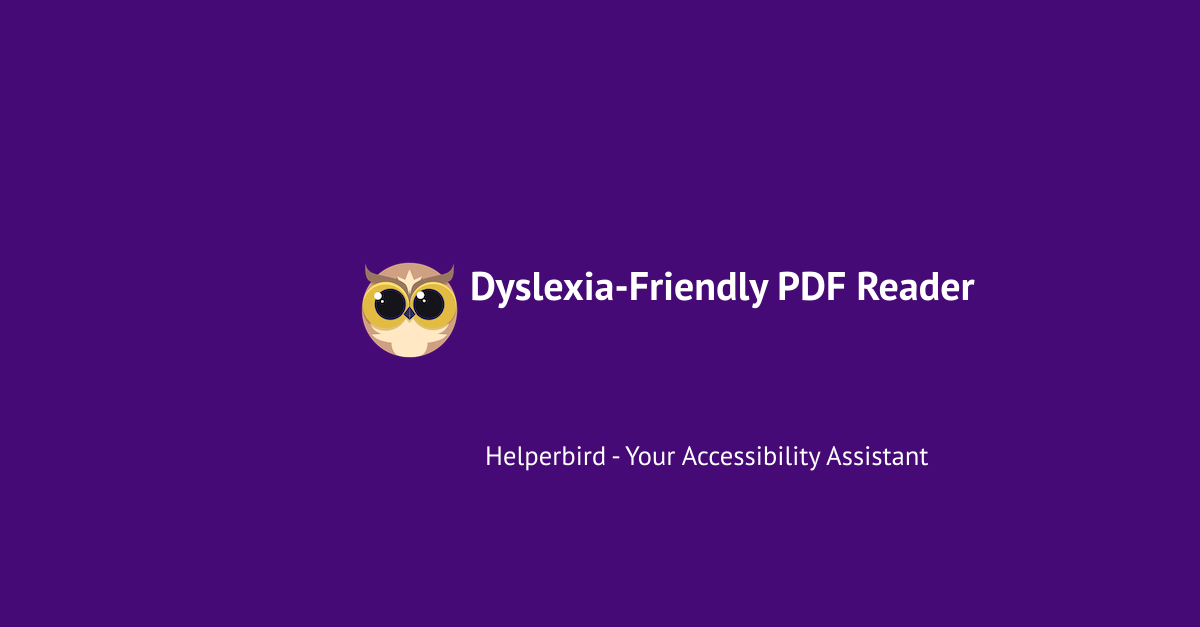
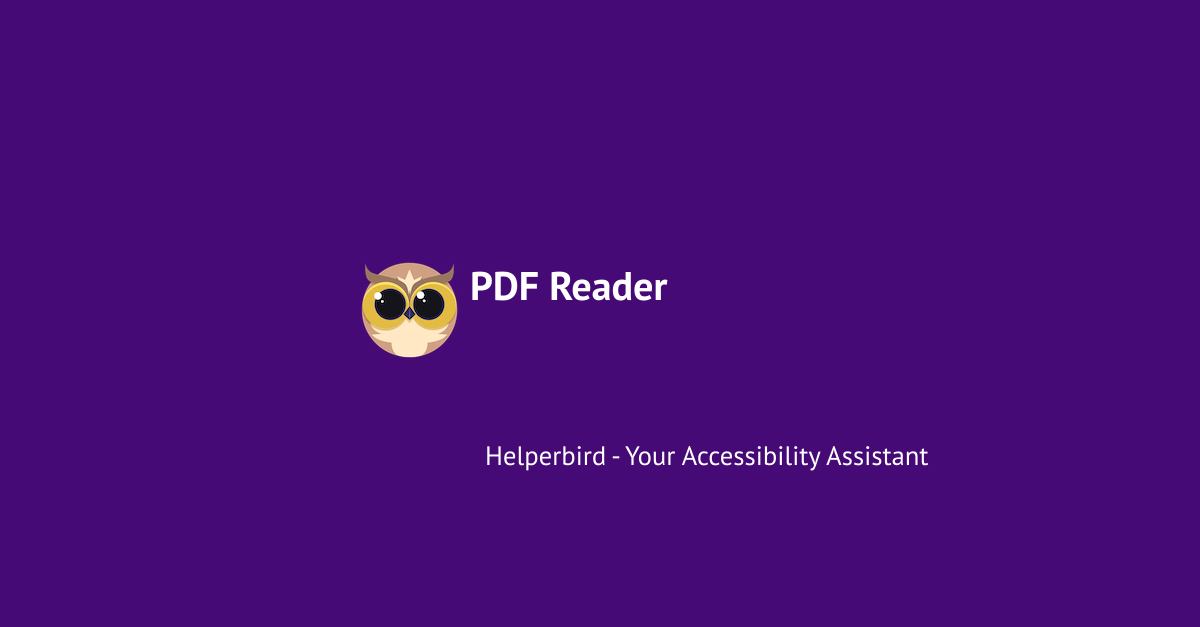
Deploying to gh-pages from  @ 05a28f07f5a9c2d22b33d9c2ecbe82440b8aa141 🚀

Changed region(s): [[0.4008, 0.4242, 0.8325, 0.4848]]

diff --git a/features/pdfs/index.html b/features/pdfs/index.html
@@ -4,7 +4,7 @@
   <head>
     <meta charset="utf-8" />
     <meta content="width=device-width, initial-scale=1.0" name="viewport" />
-    <title>Effortlessly Annotate and Highlight PDFs | Dyslexia-Friendly PDF Reader - Helperbird features</title>
+    <title>Annotate and Highlight PDFs | Dyslexia-Friendly PDF Reader - Helperbird features</title>
     <link href="/assets/js/main.css" rel="stylesheet" />
     <script>
       if ('serviceWorker' in navigator) {
@@ -13,24 +13,24 @@
     </script>
 
     <link href="https://www.helperbird.com/features/pdfs/" rel="canonical" />
-    <meta content="Elevate your PDF interactions with Helperbird's Dyslexia-Friendly PDF Reader. Not only can you annotate, highlight, and add sticky notes, but you also gain the advantage of dyslexia support features. With integrated text-to-speech, Immersive Reader, and a highlighter tool, navigating and studying PDFs becomes a seamless experience. Try it now with our easy-to-use browser extension." name="description" />
+    <meta content="Easily annotate, highlight, and add sticky notes to your PDFs with Helperbird's PDF Reader. Enjoy dyslexia support features like text-to-speech and Immersive Reader to make reading and studying PDFs simpler and more accessible." name="description" />
     <meta content="Dyslexia software, Reading Mode for Google Chrome, Voice typing for Chrome, Text to speech for Chrome, text reader, Immersive Reader, dyslexia fonts, accessibility software, dyslexia software, Helperbird for Edge, Helperbird for Firefox, Helperbird for Chrome, Opendyslexic for Chrome, OpenDyslexic" name="keywords" />
 
     <meta name="viewport" content="width=device-width, initial-scale=1, shrink-to-fit=no" />
     <meta content="/assets/images/favicon.png" name="image" />
     <meta content="#5046e4" name="theme-color" />
     <meta content="Helperbird" itemprop="name" />
-    <meta content="Elevate your PDF interactions with Helperbird's Dyslexia-Friendly PDF Reader. Not only can you annotate, highlight, and add sticky notes, but you also gain the advantage of dyslexia support features. With integrated text-to-speech, Immersive Reader, and a highlighter tool, navigating and studying PDFs becomes a seamless experience. Try it now with our easy-to-use browser extension." itemprop="description" />
+    <meta content="Easily annotate, highlight, and add sticky notes to your PDFs with Helperbird's PDF Reader. Enjoy dyslexia support features like text-to-speech and Immersive Reader to make reading and studying PDFs simpler and more accessible." itemprop="description" />
     <meta content="/assets/images/favicon.png" itemprop="image" />
 
     <meta name="twitter:card" content="summary_large_image" />
     <meta name="twitter:site" content="@helperbird" />
     <meta name="twitter:creator" content="@robertjgabriel" />
-    <meta name="twitter:title" content="Effortlessly Annotate and Highlight PDFs | Dyslexia-Friendly PDF Reader - Helperbird" />
+    <meta name="twitter:title" content="Annotate and Highlight PDFs | Dyslexia-Friendly PDF Reader - Helperbird" />
     <meta property="twitter:domain" content="helperbird.com" />
 
     <meta property="twitter:url" content="https://www.helperbird.com/features/pdfs/" />
-    <meta name="twitter:description" content="Elevate your PDF interactions with Helperbird's Dyslexia-Friendly PDF Reader. Not only can you annotate, highlight, and add sticky notes, but you also gain the advantage of dyslexia support features. With integrated text-to-speech, Immersive Reader, and a highlighter tool, navigating and studying PDFs becomes a seamless experience. Try it now with our easy-to-use browser extension." />
+    <meta name="twitter:description" content="Easily annotate, highlight, and add sticky notes to your PDFs with Helperbird's PDF Reader. Enjoy dyslexia support features like text-to-speech and Immersive Reader to make reading and studying PDFs simpler and more accessible." />
 
     <meta name="twitter:image:alt" content="Helperbird promo art with text saying visit Helperbird" />
     <meta name="twitter:image" content="https://www.helperbird.com/features/pdfs/index.png" />
@@ -39,8 +39,8 @@
 
     <meta property="og:locale" content="en_US" />
     <meta property="og:type" content="website" />
-    <meta property="og:title" content="Effortlessly Annotate and Highlight PDFs | Dyslexia-Friendly PDF Reader - Helperbird" />
-    <meta property="og:description" content="Elevate your PDF interactions with Helperbird's Dyslexia-Friendly PDF Reader. Not only can you annotate, highlight, and add sticky notes, but you also gain the advantage of dyslexia support features. With integrated text-to-speech, Immersive Reader, and a highlighter tool, navigating and studying PDFs becomes a seamless experience. Try it now with our easy-to-use browser extension." />
+    <meta property="og:title" content="Annotate and Highlight PDFs | Dyslexia-Friendly PDF Reader - Helperbird" />
+    <meta property="og:description" content="Easily annotate, highlight, and add sticky notes to your PDFs with Helperbird's PDF Reader. Enjoy dyslexia support features like text-to-speech and Immersive Reader to make reading and studying PDFs simpler and more accessible." />
     <meta property="og:url" content="https://www.helperbird.com/features/pdfs/" />
     <meta property="og:site_name" content="Helperbird" />
     <meta property="og:image" content="https://www.helperbird.com/features/pdfs/index.png" />
@@ -2105,7 +2105,7 @@
 
           <div class="px-6 py-24 sm:py-32 lg:px-8 mb-12">
             <div class="mx-auto max-w-2xl text-center">
-              <h2 class="text-3xl font-bold text-black sm:text-4xl">Dyslexia-Friendly PDF Reader</h2>
+              <h2 class="text-3xl font-bold text-black sm:text-4xl">PDF Reader</h2>
               <p class="mt-6 text-2xl  text-black">Elevate your PDF interactions with Helperbird's Dyslexia-Friendly PDF Reader. Not only can you annotate, highlight, and add sticky notes, but you also gain the advantage of dyslexia support features. With integrated text-to-speech, Immersive Reader, and a highlighter tool, navigating and studying PDFs becomes a seamless experience.</p>
             </div>
           </div>
@@ -2117,47 +2117,51 @@
                 <div class="lg:max-w-lg text-black">
 
               
-                  <h2 class="leading-relaxed font-display text-2xl mb-6 mt-12 font-semibold text-gray-800">Tell Me About This feature</h2>
-<p class="leading-relaxed font-display mb-4 mt-4 text-lg text-gray-900">Transform your PDF reading experience with Helperbird's Dyslexia-Friendly PDF reader.</p>
-<p class="leading-relaxed font-display mb-4 mt-4 text-lg text-gray-900">Easily annotate, highlight and add sticky notes to your PDFs, all while receiving dyslexia support.</p>
-<p class="leading-relaxed font-display mb-4 mt-4 text-lg text-gray-900">With the added benefit of text-to-speech, immersive reader and a highlighter feature, reading and studying PDFs has never been easier.</p>
-<p class="leading-relaxed font-display mb-4 mt-4 text-lg text-gray-900">Try it now with our easy-to-use browser extension</p>
+                  <h2 class="leading-relaxed font-display text-2xl mb-6 mt-12 font-semibold text-gray-800">About This Feature</h2>
+<p class="leading-relaxed font-display mb-4 mt-4 text-lg text-gray-900">Helperbird's Dyslexia-Friendly PDF Reader makes reading and studying PDFs easier. You can annotate, highlight, and add sticky notes to your PDFs, and get support features like text-to-speech and Immersive Reader.</p>
 <h2 class="leading-relaxed font-display text-2xl mb-6 mt-12 font-semibold text-gray-800">Benefits</h2>
-<p class="leading-relaxed font-display mb-4 mt-4 text-lg text-gray-900">It allows users to easily annotate and highlight PDFs, with support for users with dyslexia.</p>
-<p class="leading-relaxed font-display mb-4 mt-4 text-lg text-gray-900">It offers a text-to-speech feature that can help users with reading difficulties.</p>
-<p class="leading-relaxed font-display mb-4 mt-4 text-lg text-gray-900">It has an immersive reader feature that can help improve reading comprehension and focus.</p>
-<p class="leading-relaxed font-display mb-4 mt-4 text-lg text-gray-900">It allows users to add sticky notes and annotations, making it easier to organize and study PDFs.</p>
-<p class="leading-relaxed font-display mb-4 mt-4 text-lg text-gray-900">It also has a highlighter feature which can be used to emphasize important text.</p>
-<p class="leading-relaxed font-display mb-4 mt-4 text-lg text-gray-900">It can help users with dyslexia to read and study PDFs more efficiently and effectively.</p>
-<p class="leading-relaxed font-display mb-4 mt-4 text-lg text-gray-900">It can enhance the overall user experience by making PDFs more accessible and easy to understand.</p>
+<h3 class="leading-relaxed font-display text-xl mb-4 mt-10 font-semibold text-gray-700">Easy Annotation</h3>
+<p class="leading-relaxed font-display mb-4 mt-4 text-lg text-gray-900">Annotate and highlight PDFs easily, helping you organize and study your documents.</p>
+<h3 class="leading-relaxed font-display text-xl mb-4 mt-10 font-semibold text-gray-700">Dyslexia Support</h3>
+<p class="leading-relaxed font-display mb-4 mt-4 text-lg text-gray-900">Get support features designed to help users with dyslexia, like text-to-speech and Immersive Reader.</p>
+<h3 class="leading-relaxed font-display text-xl mb-4 mt-10 font-semibold text-gray-700">Text-to-Speech</h3>
+<p class="leading-relaxed font-display mb-4 mt-4 text-lg text-gray-900">Let the PDF reader read text aloud, which can help users with reading difficulties.</p>
+<h3 class="leading-relaxed font-display text-xl mb-4 mt-10 font-semibold text-gray-700">Immersive Reader</h3>
+<p class="leading-relaxed font-display mb-4 mt-4 text-lg text-gray-900">Use the Immersive Reader feature to improve reading comprehension and focus.</p>
+<h3 class="leading-relaxed font-display text-xl mb-4 mt-10 font-semibold text-gray-700">Add Sticky Notes</h3>
+<p class="leading-relaxed font-display mb-4 mt-4 text-lg text-gray-900">Add sticky notes to your PDFs for better organization and study efficiency.</p>
+<h3 class="leading-relaxed font-display text-xl mb-4 mt-10 font-semibold text-gray-700">Highlight Important Text</h3>
+<p class="leading-relaxed font-display mb-4 mt-4 text-lg text-gray-900">Use the highlighter to emphasize important text in your PDFs.</p>
+<h3 class="leading-relaxed font-display text-xl mb-4 mt-10 font-semibold text-gray-700">Accessibility</h3>
+<p class="leading-relaxed font-display mb-4 mt-4 text-lg text-gray-900">Make PDFs more accessible and easier to understand for everyone.</p>
 <h2 class="leading-relaxed font-display text-2xl mb-6 mt-12 font-semibold text-gray-800">Features</h2>
 <ul class="leading-relaxed list-disc list-inside mt-4 space-y-2 pl-6 text-lg font-display ml-6 mb-8 text-gray-900">
 <li class="leading-relaxed mb-2 text-lg font-display text-gray-900 flex items-center">Annotate PDFs</li>
 <li class="leading-relaxed mb-2 text-lg font-display text-gray-900 flex items-center">Highlight PDFs</li>
 <li class="leading-relaxed mb-2 text-lg font-display text-gray-900 flex items-center">Add sticky notes to PDFs</li>
 <li class="leading-relaxed mb-2 text-lg font-display text-gray-900 flex items-center">Text-to-speech</li>
-<li class="leading-relaxed mb-2 text-lg font-display text-gray-900 flex items-center">Immersive reader</li>
+<li class="leading-relaxed mb-2 text-lg font-display text-gray-900 flex items-center">Immersive Reader</li>
 <li class="leading-relaxed mb-2 text-lg font-display text-gray-900 flex items-center">Highlighter</li>
 <li class="leading-relaxed mb-2 text-lg font-display text-gray-900 flex items-center">Dyslexia support</li>
-<li class="leading-relaxed mb-2 text-lg font-display text-gray-900 flex items-center">Accessibility</li>
-<li class="leading-relaxed mb-2 text-lg font-display text-gray-900 flex items-center">Access Helperbirds software on any PDF.</li>
+<li class="leading-relaxed mb-2 text-lg font-display text-gray-900 flex items-center">Accessibility features</li>
+<li class="leading-relaxed mb-2 text-lg font-display text-gray-900 flex items-center">Use Helperbird's tools on any PDF</li>
 </ul>
-<h2 class="leading-relaxed font-display text-2xl mb-6 mt-12 font-semibold text-gray-800">How to annotate PDF files online</h2>
-<ul class="leading-relaxed list-disc list-inside mt-4 space-y-2 pl-6 text-lg font-display ml-6 mb-8 text-gray-900">
+<h2 class="leading-relaxed font-display text-2xl mb-6 mt-12 font-semibold text-gray-800">How to Annotate PDF Files Online</h2>
+<ol class="leading-relaxed list-decimal list-inside mt-4 space-y-2 pl-6 text-lg font-display ml-6 mb-8 text-gray-900">
 <li class="leading-relaxed mb-2 text-lg font-display text-gray-900 flex items-center">Open Helperbird and select the PDF reader option.</li>
-<li class="leading-relaxed mb-2 text-lg font-display text-gray-900 flex items-center">Click the open PDF button.</li>
-<li class="leading-relaxed mb-2 text-lg font-display text-gray-900 flex items-center">Click annotate button along the top.</li>
-<li class="leading-relaxed mb-2 text-lg font-display text-gray-900 flex items-center">Thats it.</li>
-</ul>
-<h2 class="leading-relaxed font-display text-2xl mb-6 mt-12 font-semibold text-gray-800">How to highlight PDF files online</h2>
-<ul class="leading-relaxed list-disc list-inside mt-4 space-y-2 pl-6 text-lg font-display ml-6 mb-8 text-gray-900">
+<li class="leading-relaxed mb-2 text-lg font-display text-gray-900 flex items-center">Click the &quot;Open PDF&quot; button.</li>
+<li class="leading-relaxed mb-2 text-lg font-display text-gray-900 flex items-center">Click the &quot;Annotate&quot; button at the top.</li>
+<li class="leading-relaxed mb-2 text-lg font-display text-gray-900 flex items-center">Start annotating your PDF.</li>
+</ol>
+<h2 class="leading-relaxed font-display text-2xl mb-6 mt-12 font-semibold text-gray-800">How to Highlight PDF Files Online</h2>
+<ol class="leading-relaxed list-decimal list-inside mt-4 space-y-2 pl-6 text-lg font-display ml-6 mb-8 text-gray-900">
 <li class="leading-relaxed mb-2 text-lg font-display text-gray-900 flex items-center">Open Helperbird and select the PDF reader option.</li>
-<li class="leading-relaxed mb-2 text-lg font-display text-gray-900 flex items-center">Click the open PDF button.</li>
-<li class="leading-relaxed mb-2 text-lg font-display text-gray-900 flex items-center">Click annotate button along the top.</li>
-<li class="leading-relaxed mb-2 text-lg font-display text-gray-900 flex items-center">Thats it.</li>
-</ul>
-<h2 class="leading-relaxed font-display text-2xl mb-6 mt-12 font-semibold text-gray-800">Is this a Helperbird Pro feature?</h2>
-<p class="leading-relaxed font-display mb-4 mt-4 text-lg text-gray-900">No, this is not a Helperbird Pro feature.</p>
+<li class="leading-relaxed mb-2 text-lg font-display text-gray-900 flex items-center">Click the &quot;Open PDF&quot; button.</li>
+<li class="leading-relaxed mb-2 text-lg font-display text-gray-900 flex items-center">Click the &quot;Highlight&quot; button at the top.</li>
+<li class="leading-relaxed mb-2 text-lg font-display text-gray-900 flex items-center">Start highlighting your PDF.</li>
+</ol>
+<h2 class="leading-relaxed font-display text-2xl mb-6 mt-12 font-semibold text-gray-800">Is This a Helperbird Pro Feature?</h2>
+<p class="leading-relaxed font-display mb-4 mt-4 text-lg text-gray-900">No, this feature is available to all Helperbird users.</p>
 
 
                 </div>

diff --git a/service-worker.js b/service-worker.js
@@ -1784,7 +1784,7 @@ self.__precacheManifest = [
   },
   {
     "url": "extension/index.html",
-    "revision": "12a70e79dbfd0f57feb7550a1eb6b404"
+    "revision": "af532f3e1bd775fe0140cd467de0635b"
   },
   {
     "url": "extension/index.png",
@@ -1936,7 +1936,7 @@ self.__precacheManifest = [
   },
   {
     "url": "features/index.html",
-    "revision": "27d6f51a9c0a4e2505105150fcb2d4be"
+    "revision": "8328bf08e567ac1677fafe4cf6de4ec2"
   },
   {
     "url": "features/index.png",
@@ -1984,11 +1984,11 @@ self.__precacheManifest = [
   },
   {
     "url": "features/pdfs/index.html",
-    "revision": "8c10a025c6fb9454b6861c7d0bdbe35f"
+    "revision": "d707e7f4ba25362e062c9d0113bf0afd"
   },
   {
     "url": "features/pdfs/index.png",
-    "revision": "fc30f3d727108b7bc268f596acb0de5e"
+    "revision": "8bddafc220b30ccaee204af29dcd8d20"
   },
   {
     "url": "features/printing-tool/index.html",
@@ -2920,7 +2920,7 @@ self.__precacheManifest = [
   },
   {
     "url": "index.html",
-    "revision": "7e1023ed3300349d7b3679bf263eecae"
+    "revision": "71ba142fbf5de2bfb612443df68b6a32"
   },
   {
     "url": "index.png",
@@ -3028,7 +3028,7 @@ self.__precacheManifest = [
   },
   {
     "url": "products/chrome/index.html",
-    "revision": "8c63ab3b1cc5017113eebd69b355b1ce"
+    "revision": "38351446b1e379ba4621c263b27ed923"
   },
   {
     "url": "products/chrome/index.png",
@@ -3036,7 +3036,7 @@ self.__precacheManifest = [
   },
   {
     "url": "products/edge/index.html",
-    "revision": "31ddd27c9f8d7f9f342835269d53f6fa"
+    "revision": "3de43993237e684c77019ed528f095ea"
   },
   {
     "url": "products/edge/index.png",
@@ -3044,7 +3044,7 @@ self.__precacheManifest = [
   },
   {
     "url": "products/firefox/index.html",
-    "revision": "e34ce6bf087d4d04c832f2aa8bd3ec01"
+    "revision": "7b4db5ad5757533dc8b43d47e6445be9"
   },
   {
     "url": "products/firefox/index.png",
@@ -3060,7 +3060,7 @@ self.__precacheManifest = [
   },
   {
     "url": "products/ipad/index.html",
-    "revision": "ac49fe89df731b24272e037ded56277c"
+    "revision": "305764816c88f9bc58af2e630daf29dc"
   },
   {
     "url": "products/ipad/index.png",
@@ -3116,7 +3116,7 @@ self.__precacheManifest = [
   },
   {
     "url": "sitemap/index.html",
-    "revision": "5cd4cc651d0219f4ab8f80707a2d00b9"
+    "revision": "cc6511c2cf907e6b3d728d9ab01dd40c"
   },
   {
     "url": "sitemap/index.png",

diff --git a/sitemap/index.html b/sitemap/index.html
@@ -5938,21 +5938,21 @@
 
           <div>
 
-          <a href="/features/pdfs/" class="leading-relaxed font-sans text-blue-600 hover:decoration-wavy hover:underline text-xl font-bold" title="Effortlessly Annotate and Highlight PDFs | Dyslexia-Friendly PDF Reader">
-            Effortlessly Annotate and Highlight PDFs | Dyslexia-Friendly PDF Reader
+          <a href="/features/pdfs/" class="leading-relaxed font-sans text-blue-600 hover:decoration-wavy hover:underline text-xl font-bold" title="Annotate and Highlight PDFs | Dyslexia-Friendly PDF Reader">
+            Annotate and Highlight PDFs | Dyslexia-Friendly PDF Reader
           </a>
           
 
 
             <p class="leading-relaxed font-sans  mt-5  text-base text-black mb-5 line-clamp-3">
-              Elevate your PDF interactions with Helperbird's Dyslexia-Friendly PDF Reader. Not only can you annotate, highlight, and add sticky notes, but you also gain the advantage of dyslexia support features. With integrated text-to-speech, Immersive Reader, and a highlighter tool, navigating and studying PDFs becomes a seamless experience. Try it now with our easy-to-use browser extension.
+              Easily annotate, highlight, and add sticky notes to your PDFs with Helperbird's PDF Reader. Enjoy dyslexia support features like text-to-speech and Immersive Reader to make reading and studying PDFs simpler and more accessible.
             </p>
 
 
             <div class="mt-3">
               <a
                 href="/features/pdfs/"
-                title="Effortlessly Annotate and Highlight PDFs | Dyslexia-Friendly PDF Reader"
+                title="Annotate and Highlight PDFs | Dyslexia-Friendly PDF Reader"
                 class="btn-sm btn-outline btn  rounded-xl shadow-md ">
                 Visit
               </a>

diff --git a/features/index.html b/features/index.html
@@ -3276,7 +3276,7 @@
     <path stroke-linecap="round" stroke-linejoin="round" stroke-width="2" d="M7 21h10a2 2 0 002-2V9.414a1 1 0 00-.293-.707l-5.414-5.414A1 1 0 0012.586 3H7a2 2 0 00-2 2v14a2 2 0 002 2z"/>
 </svg>
             </div>
-            <h2 class="leading-relaxed font-sans  mt-5 text-xl  font-semibold text-black">	Dyslexia-Friendly PDF Reader
+            <h2 class="leading-relaxed font-sans  mt-5 text-xl  font-semibold text-black">	PDF Reader
 
             </h2>
           </dt>
@@ -3286,8 +3286,8 @@
 			<a
 				class="btn-base btn btn-secondary shadow-md"
 				href="/features/pdfs/"
-				aria-label="More information on feature Dyslexia-Friendly PDF Reader"
-			title="More information on feature Dyslexia-Friendly PDF Reader"
+				aria-label="More information on feature PDF Reader"
+			title="More information on feature PDF Reader"
 				>Learn more</a
 			>
 			</div>

diff --git a/index.html b/index.html
@@ -2959,7 +2959,7 @@ Whether you're reading a movie review or writing an email, Helperbird can make w
 </svg>
 					</div>
 					<h3 class="leading-relaxed font-sans mt-5 text-lg font-semibold text-black">
-						Dyslexia-Friendly PDF Reader
+						PDF Reader
 					</h3>
 
 					<p class=" line-clamp-3 font-sans text-base leading-relaxed my-4 text-black">
@@ -2970,8 +2970,8 @@ Whether you're reading a movie review or writing an email, Helperbird can make w
 						<a
 						class="btn-base btn btn-secondary shadow-md"
 						href="/features/pdfs/"
-						aria-label="More information on feature Dyslexia-Friendly PDF Reader"
-						title="More information on feature Dyslexia-Friendly PDF Reader"
+						aria-label="More information on feature PDF Reader"
+						title="More information on feature PDF Reader"
 					  >Read more</a>
 					  
 					</div>

diff --git a/products/ipad/index.html b/products/ipad/index.html
@@ -2826,7 +2826,7 @@
 </svg>
 						</div>
 						<h3 class="leading-relaxed font-sans mt-5 text-lg font-semibold text-black">
-							Dyslexia-Friendly PDF Reader
+							PDF Reader
 						</h3>
 
 						<p class=" line-clamp-3 font-sans text-base leading-relaxed my-4 text-black">
@@ -2837,8 +2837,8 @@
 							<a
 							class="btn-base btn btn-secondary shadow-md"
 							href="/features/pdfs/"
-							aria-label="More information on feature Dyslexia-Friendly PDF Reader"
-							title="Discover more about feature Dyslexia-Friendly PDF Reader"
+							aria-label="More information on feature PDF Reader"
+							title="Discover more about feature PDF Reader"
 						  >Discover more</a>
 						  
 						</div>

diff --git a/extension/index.html b/extension/index.html
@@ -2887,7 +2887,7 @@
 </svg>
 					</div>
 					<h3 class="leading-relaxed font-sans mt-5 text-lg font-semibold text-black">
-						Dyslexia-Friendly PDF Reader
+						PDF Reader
 					</h3>
 
 					<p class=" line-clamp-3 font-sans text-base leading-relaxed my-4 text-black">
@@ -2898,8 +2898,8 @@
 						<a
 						class="btn-base btn btn-secondary shadow-md"
 						href="/features/pdfs/"
-						aria-label="More information on feature Dyslexia-Friendly PDF Reader"
-						title="More information on feature Dyslexia-Friendly PDF Reader"
+						aria-label="More information on feature PDF Reader"
+						title="More information on feature PDF Reader"
 					  >Read more</a>
 					  
 					</div>

diff --git a/products/chrome/index.html b/products/chrome/index.html
@@ -2879,7 +2879,7 @@
 </svg>
 					</div>
 					<h3 class="leading-relaxed font-sans mt-5 text-lg font-semibold text-black">
-						Dyslexia-Friendly PDF Reader
+						PDF Reader
 					</h3>
 
 					<p class=" line-clamp-3 font-sans text-base leading-relaxed my-4 text-black">
@@ -2890,8 +2890,8 @@
 						<a
 						class="btn-base btn btn-secondary shadow-md"
 						href="/features/pdfs/"
-						aria-label="More information on feature Dyslexia-Friendly PDF Reader"
-						title="More information on feature Dyslexia-Friendly PDF Reader"
+						aria-label="More information on feature PDF Reader"
+						title="More information on feature PDF Reader"
 					  >Read more</a>
 					  
 					</div>

diff --git a/products/edge/index.html b/products/edge/index.html
@@ -2881,7 +2881,7 @@
 </svg>
 					</div>
 					<h3 class="leading-relaxed font-sans mt-5 text-lg font-semibold text-black">
-						Dyslexia-Friendly PDF Reader
+						PDF Reader
 					</h3>
 
 					<p class=" line-clamp-3 font-sans text-base leading-relaxed my-4 text-black">
@@ -2892,8 +2892,8 @@
 						<a
 						class="btn-base btn btn-secondary shadow-md"
 						href="/features/pdfs/"
-						aria-label="More information on feature Dyslexia-Friendly PDF Reader"
-						title="More information on feature Dyslexia-Friendly PDF Reader"
+						aria-label="More information on feature PDF Reader"
+						title="More information on feature PDF Reader"
 					  >Read more</a>
 					  
 					</div>

diff --git a/products/firefox/index.html b/products/firefox/index.html
@@ -2879,7 +2879,7 @@
 </svg>
 					</div>
 					<h3 class="leading-relaxed font-sans mt-5 text-lg font-semibold text-black">
-						Dyslexia-Friendly PDF Reader
+						PDF Reader
 					</h3>
 
 					<p class=" line-clamp-3 font-sans text-base leading-relaxed my-4 text-black">
@@ -2890,8 +2890,8 @@
 						<a
 						class="btn-base btn btn-secondary shadow-md"
 						href="/features/pdfs/"
-						aria-label="More information on feature Dyslexia-Friendly PDF Reader"
-						title="More information on feature Dyslexia-Friendly PDF Reader"
+						aria-label="More information on feature PDF Reader"
+						title="More information on feature PDF Reader"
 					  >Read more</a>
 					  
 					</div>
